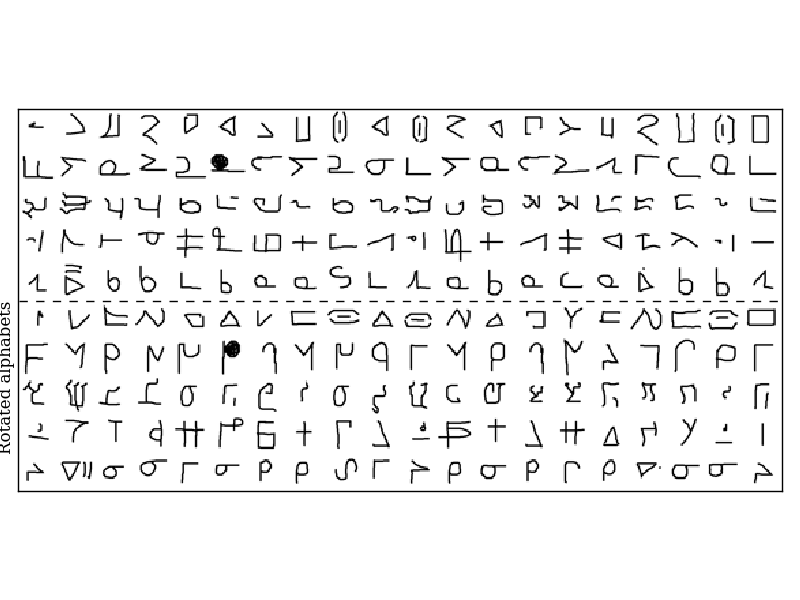
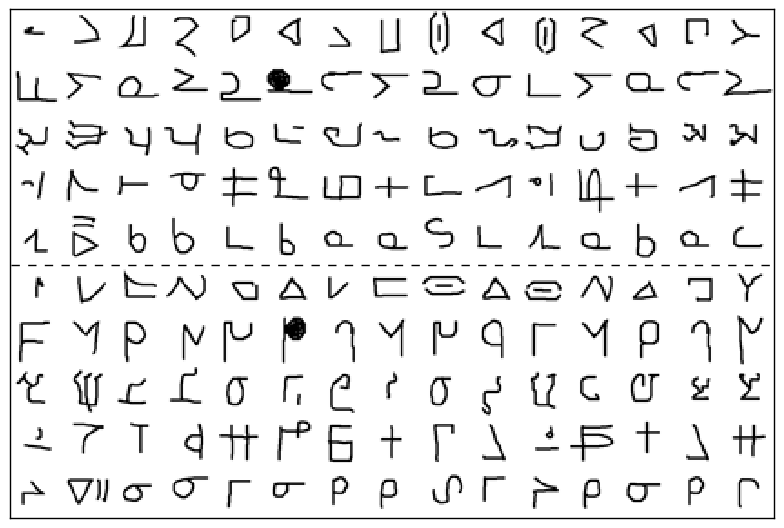
Made omniglot example letters figure nicer

Changed region(s): [[0.0, 0.0, 1.0, 1.0], [0.2143, 0.9091, 0.2449, 0.9394]]

diff --git a/experiments/Feb_4_augmented_omniglot/2_rotated_90/experiment.py b/experiments/Feb_4_augmented_omniglot/2_rotated_90/experiment.py
@@ -136,10 +136,14 @@ def plot():
     fig = plt.figure(0)
     fig.clf()
     ax = fig.add_subplot(111)
-    omniglot.show_alphabets(omniglot.load_rotated_alphabets(RS, normalize=False, angle=90), ax=ax)
-    ax.plot([0, 20 * 28], [5 * 28, 5 * 28], '--k')
-    ax.text(-15, 5 * 28 * 3 / 2 - 60, "Rotated alphabets", rotation='vertical')
-    plt.savefig("all_alphabets.png")
+    alphabets = omniglot.load_rotated_alphabets(RS, normalize=False, angle=90)
+    num_cols = 15
+    num_rows = 5
+    omniglot.show_alphabets(alphabets, ax=ax, n_cols=num_cols)
+    ax.plot([0, num_cols * 28], [num_rows * 28, num_rows * 28], '--k')
+    #ax.text(-15, 5 * 28 * 3 / 2 - 60, "Rotated alphabets", rotation='vertical')
+    plt.savefig("all_alphabets.png", bbox_inches='tight')
+
     # Plotting transformations
     names = ['no_sharing', 'full_sharing', 'learned_sharing']
     title_strings = {'no_sharing'      : 'Independent nets',

diff --git a/paper/hypergrad_paper.tex b/paper/hypergrad_paper.tex
@@ -411,7 +411,10 @@ Learning the labels of a larger training set might shed light on which classes a
 
 \begin{figure}[h!]
 \begin{center}
-\includegraphics[width=\columnwidth]{../experiments/Feb_4_augmented_omniglot/2_rotated_90/all_alphabets.png}
+\begin{tabular}{cc}
+\hspace{-3mm}\rotatebox{90}{\qquad Rotated \qquad \quad Original} & 
+\hspace{-3mm}\includegraphics[width=0.85\columnwidth]{../experiments/Feb_4_augmented_omniglot/2_rotated_90/all_alphabets.png}
+\end{tabular}
 \caption{Example character sets in the Omniglot dataset.}
 \label{fig:omniglot}
 \end{center}

diff --git a/hypergrad/omniglot.py b/hypergrad/omniglot.py
@@ -142,12 +142,11 @@ def subtract_mean(alphabets):
         alphabet['X'] = alphabet['X'] - mean_img
     return alphabets
 
-def show_alphabets(alphabets, ax=None):
+def show_alphabets(alphabets, ax=None, n_cols=20):
     import matplotlib as mpl
     import matplotlib.pyplot as plt
     from nn_utils import plot_images
     seed = 1
-    n_cols = 20
     n_rows = len(alphabets)
     full_image = np.zeros((0, n_cols * 28))
     for alphabet in alphabets:
